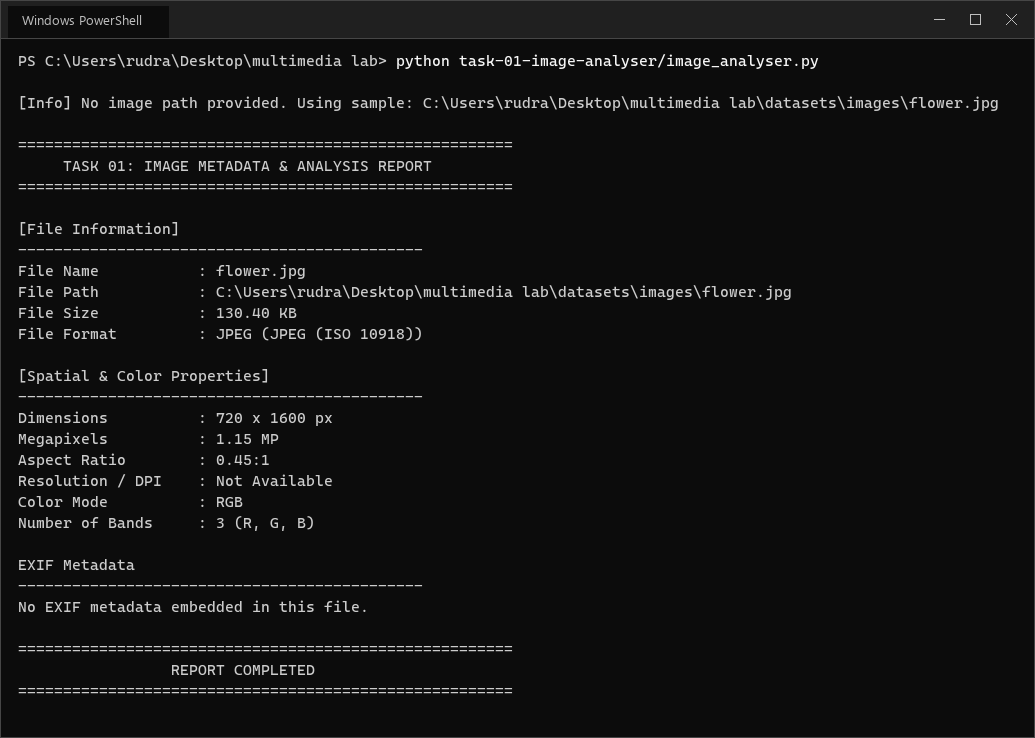
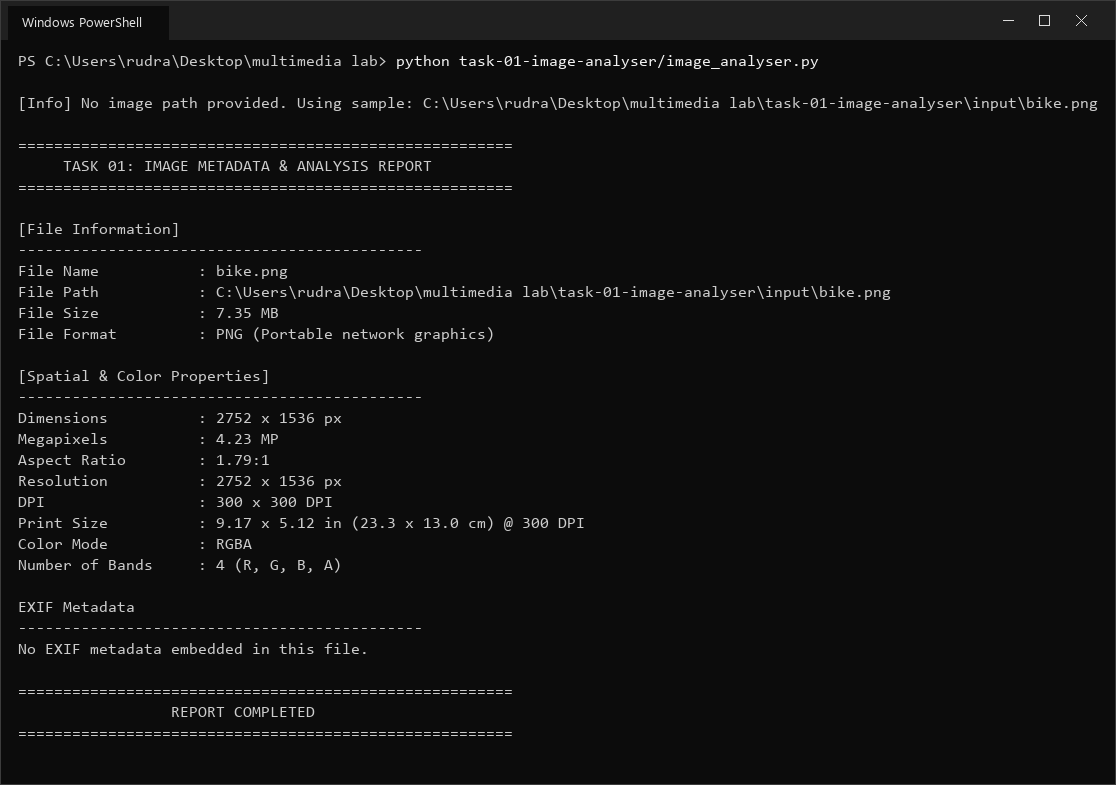
feat(task-01): analyse bike.png, report resolution and DPI

diff --git a/task-01-image-analyser/image_analyser.py b/task-01-image-analyser/image_analyser.py
@@ -38,12 +38,31 @@ def get_exif_data(image: Image.Image) -> dict:
     return exif_data
 
 
-def get_resolution(image: Image.Image) -> str:
-    """Get image DPI / resolution if available."""
+def get_dpi(image: Image.Image):
+    """Return the DPI stored in the file, or None if there is none."""
     dpi = image.info.get("dpi")
     if dpi:
-        return f"{dpi[0]} x {dpi[1]} DPI"
-    return "Not Available"
+        return round(dpi[0]), round(dpi[1])
+    return None
+
+
+def get_resolution(image: Image.Image) -> str:
+    """Pixel resolution with its common name where there is one."""
+    names = {
+        (1280, 720): "HD", (1920, 1080): "Full HD", (2560, 1440): "QHD",
+        (3840, 2160): "4K UHD", (7680, 4320): "8K UHD",
+    }
+    size = tuple(sorted(image.size, reverse=True))
+    label = names.get(size)
+    return f"{image.width} x {image.height} px" + (f" ({label})" if label else "")
+
+
+def get_print_size(image: Image.Image) -> str:
+    """Physical print size using the stored DPI (300 DPI if none is stored)."""
+    dpi = get_dpi(image)[0] if get_dpi(image) else 300
+    width_in = image.width / dpi
+    height_in = image.height / dpi
+    return f"{width_in:.2f} x {height_in:.2f} in ({width_in * 2.54:.1f} x {height_in * 2.54:.1f} cm) @ {dpi} DPI"
 
 
 def print_exif_metadata(exif_data: dict):
@@ -121,7 +140,10 @@ def analyze_image(image_path: str) -> bool:
             print(f"Dimensions          : {width} x {height} px")
             print(f"Megapixels          : {megapixels:.2f} MP")
             print(f"Aspect Ratio        : {width / height:.2f}:1")
-            print(f"Resolution / DPI    : {get_resolution(img)}")
+            dpi = get_dpi(img)
+            print(f"Resolution          : {get_resolution(img)}")
+            print(f"DPI                 : {f'{dpi[0]} x {dpi[1]} DPI' if dpi else 'Not stored in file (viewers assume 72 DPI)'}")
+            print(f"Print Size          : {get_print_size(img)}")
             print(f"Color Mode          : {img.mode}")
             print(f"Number of Bands     : {len(img.getbands())} ({', '.join(img.getbands())})")
 
@@ -141,6 +163,7 @@ def analyze_image(image_path: str) -> bool:
 def find_default_sample() -> str:
     """Locate sample image from the datasets folder."""
     candidates = [
+        Path(__file__).resolve().parent / "input" / "bike.png",
         Path(__file__).resolve().parent.parent / "datasets" / "images" / "flower.jpg",
         Path(__file__).resolve().parent.parent / "datasets" / "images" / "flower2.jpg",
         Path("datasets/images/flower.jpg"),

diff --git a/README.md b/README.md
@@ -31,6 +31,8 @@ multimedia-lab/
 │
 ├── task-01-image-analyser/             # 🖼 Image Spatial & EXIF Metadata Analyzer
 │   ├── image_analyser.py
+│   ├── input/
+│   │   └── bike.png
 │   └── outputs/
 │       └── task-01-image-analysis.png
 │
@@ -153,18 +155,21 @@ python task-01-image-analyser/image_analyser.py
 python task-01-image-analyser/image_analyser.py --file datasets/images/flower2.jpg
 ```
 
-Run against `datasets/images/flower.jpg`:
+Run against `task-01-image-analyser/input/bike.png` (the default input):
 
 ![Task 01 image analysis output](task-01-image-analyser/outputs/task-01-image-analysis.png)
 
 | Property | Value |
 | --- | --- |
-| File Format | JPEG (ISO 10918) |
-| File Size | 130.40 KB |
-| Dimensions | 720 x 1600 px |
-| Megapixels | 1.15 MP |
-| Aspect Ratio | 0.45:1 |
-| Color Mode | RGB (3 bands) |
+| File Format | PNG (Portable network graphics) |
+| File Size | 7.35 MB |
+| Dimensions | 2752 x 1536 px |
+| Megapixels | 4.23 MP |
+| Aspect Ratio | 1.79:1 |
+| Resolution | 2752 x 1536 px |
+| DPI | 300 x 300 DPI |
+| Print Size | 9.17 x 5.12 in (23.3 x 13.0 cm) @ 300 DPI |
+| Color Mode | RGBA (4 bands) |
 | EXIF | Not embedded in this file |
 
 ---
